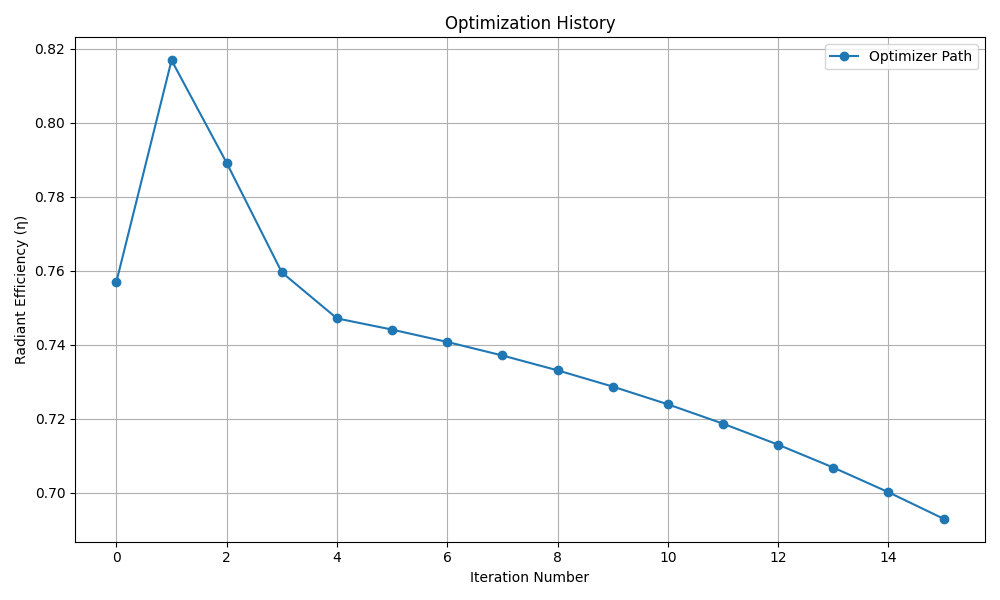
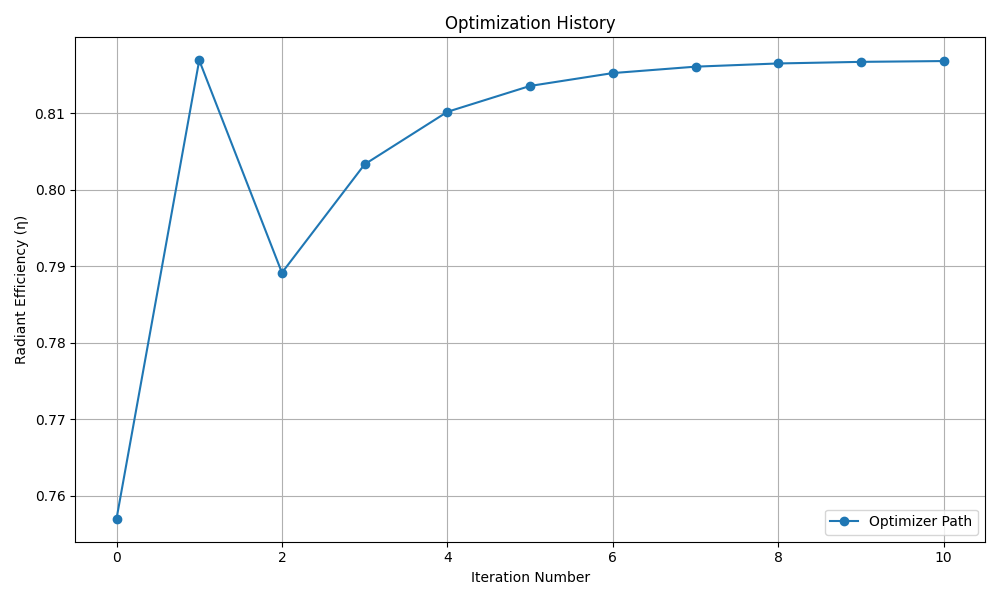
2d surface plots

diff --git a/main.py b/main.py
@@ -6,6 +6,59 @@ from tqdm import tqdm
 from simulation import run_burner_simulation
 from optimizer import RSMOptimizer
 
+def plot_response_surfaces(plot_data_history, output_dir):
+    """
+    Generates and saves contour plots of the quadratic response surface for each iteration.
+    """
+    print("\n--- Generating Response Surface Plots ---")
+    for data in plot_data_history:
+        iteration = data['iteration']
+        b = data['coefficients']
+        center_x, center_y = data['center_point']
+        step_x, step_y = data['step_size']
+        bounds = data['bounds']
+
+        # Create a grid of points to evaluate the surface model
+        x_range = np.linspace(bounds['x_min'], bounds['x_max'], 100)
+        y_range = np.linspace(bounds['y_min'], bounds['y_max'], 100)
+        X, Y = np.meshgrid(x_range, y_range)
+
+        # Evaluate the quadratic model at each grid point
+        # Z = b0 + b1*x + b2*y + b3*x^2 + b4*y^2 + b5*x*y
+        Z = b[0] + b[1]*X + b[2]*Y + b[3]*X**2 + b[4]*Y**2 + b[5]*X*Y
+        
+        # Create the plot
+        fig, ax = plt.subplots(figsize=(8, 7))
+        
+        # Filled contour plot (like the colored background)
+        contourf = ax.contourf(X, Y, -Z, levels=50, cmap='jet')
+        # Line contour plot (the black lines)
+        ax.contour(X, Y, -Z, levels=50, colors='black', linewidths=0.5)
+        
+        # Draw the white search box (trust region)
+        rect = plt.Rectangle(
+            (center_x - step_x, center_y - step_y),
+            2 * step_x, 2 * step_y,
+            fill=False, edgecolor='white', linewidth=1.5
+        )
+        ax.add_patch(rect)
+        
+        # Draw the white dot for the center point
+        ax.plot(center_x, center_y, 'w.', markersize=8)
+
+        ax.set_xlabel('Pore Diameter, $d_{p,2}$ (mm)')
+        ax.set_ylabel('Porosity, $\epsilon_2$')
+        ax.set_title(f'Response Surface for Iteration {iteration}')
+        ax.set_xlim(bounds['x_min'], bounds['x_max'])
+        ax.set_ylim(bounds['y_min'], bounds['y_max'])
+
+        # Save the figure
+        plot_path = os.path.join(output_dir, f'response_surface_iter_{iteration:02d}.png')
+        plt.savefig(plot_path)
+        plt.close(fig)
+        
+    print(f"Saved {len(plot_data_history)} surface plots to '{output_dir}'.")
+
 def main():
     print("--- Porous Burner Optimization ---")
     output_dir = 'output'
@@ -42,37 +95,26 @@ def main():
     # Plotting
     # The history is a list of tuples (design_vector, objective_value).
 # We unpack it into separate arrays for plotting.
-    history_points = np.array([item[0] for item in optimizer.history])
     history_f_values = np.array([item[1] for item in optimizer.history])
-
     iterations = np.arange(len(history_f_values))
-    efficiencies = -history_f_values
+    
+    # Calculate the cumulative best (maximum) efficiency at each step
+    best_f_history = np.minimum.accumulate(history_f_values)
+    best_efficiencies = -best_f_history
 
     plt.figure(figsize=(10, 6))
-    plt.plot(iterations, efficiencies, 'o-', label='Optimizer Path')
-# Add a line for the best value found
-    plt.axhline(y=-optimizer.best_f, color='r', linestyle='--', label=f'Best Found: {-optimizer.best_f:.4f}')
+    plt.plot(iterations, best_efficiencies, 'o-', label='Best Efficiency Found')
     plt.xlabel('Iteration Number')
     plt.ylabel('Radiant Efficiency (η)')
-    plt.title('Optimization History')
+    plt.title('Optimization Progress (Best-So-Far)')
     plt.grid(True)
     plt.legend()
+    plt.ylim(bottom=best_efficiencies.min() - 0.02, top=best_efficiencies.max() + 0.02) # Adjust y-axis
     plt.tight_layout()
-    plot_path = os.path.join(output_dir, 'optimization_history.png')
+    plot_path = os.path.join(output_dir, 'optimization_history_best.png')
     plt.savefig(plot_path)
-    print(f"\nOptimization history plot saved to '{plot_path}'")
-
-    plt.figure(figsize=(10, 6))
-    plt.plot(iterations, efficiencies, 'o-', label='Optimizer Path')
-    plt.xlabel('Iteration Number')
-    plt.ylabel('Radiant Efficiency (η)')
-    plt.title('Optimization History')
-    plt.grid(True)
-    plt.legend()
-    plt.tight_layout()
-    plot_path = os.path.join(output_dir, 'optimization_history.png')
-    plt.savefig(plot_path)
-    print(f"\nOptimization history plot saved to '{plot_path}'")
+    print(f"\nBest-so-far optimization plot saved to '{plot_path}'")
+    plot_response_surfaces(optimizer.plot_data_history,output_dir)
 
 if __name__ == "__main__":
     main()

diff --git a/optimizer.py b/optimizer.py
@@ -19,6 +19,7 @@ class RSMOptimizer:
 
         self.best_x = self.x.copy()
         self.history = []
+        self.plot_data_history = []
         # Evaluate initial point
         self.best_f = self.fn(self.x)
         if not np.isfinite(self.best_f) or self.best_f >= 0:
@@ -110,6 +111,14 @@ class RSMOptimizer:
 
                 # 2. Fit the quadratic response surface
                 b = self._fit_quadratic_surface(points, f_values)
+                plot_data = {
+                    'iteration' : i+1,
+                    'center_point' : self.x.copy(),
+                    'step_size' : self.step_size.copy(),
+                    'coefficients' : b.copy(),
+                    'bounds' : self.bounds
+                }
+                self.plot_data_history.append(plot_data)
                 
                 # 3. Find the optimal direction on the surface (Newton's step)
                 d = self._find_surface_optimum(b)
@@ -129,7 +138,9 @@ class RSMOptimizer:
                 print(f"  Proposed step: d={x_new[0]:.4f}, ε={x_new[1]:.4f}, η={-f_new:.4f}")
 
                 # 6. Update state and step size
+                is_improvement=False
                 if f_new < self.best_f:
+                    is_improvement=True
                     self.best_f = f_new
                     self.best_x = x_new
                 
@@ -140,11 +151,11 @@ class RSMOptimizer:
                     print("\nConvergence reached: step size below tolerance.")
                     break
                 
-                self.x = x_new
+                self.x = self.best_x.copy()
 
                 # Shrink the trust region if the step was small (interior optimum)
                 # This corresponds to the logic in the C++ version.
-                if scale > 0.99: 
+                if scale > 0.99 or not is_improvement:
                     self.step_size /= 2.0
                     print(f"  Shrinking step size to: [{self.step_size[0]:.4f} {self.step_size[1]:.4f}]")
 
